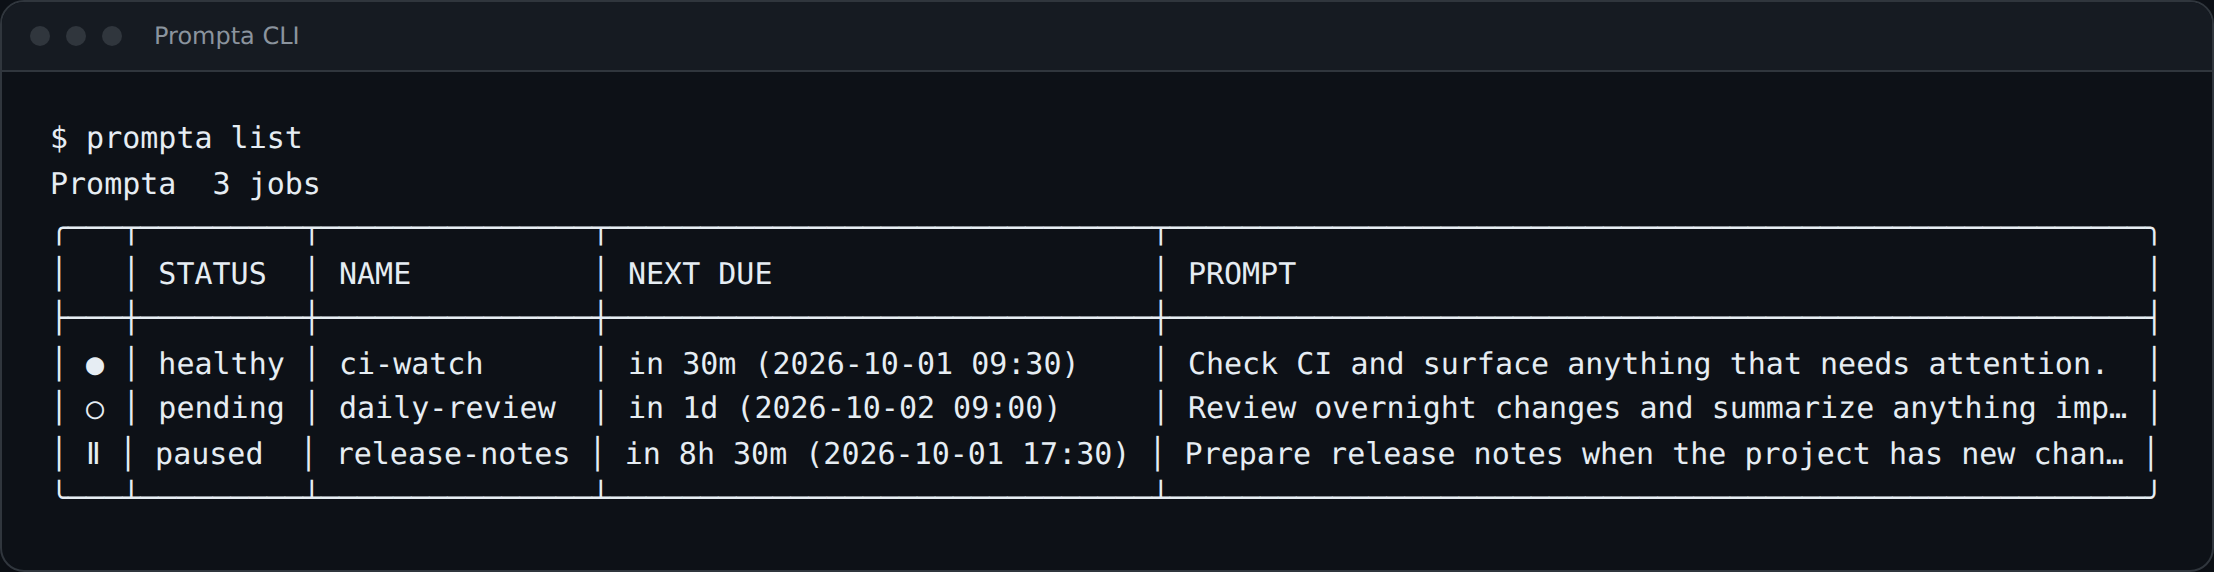
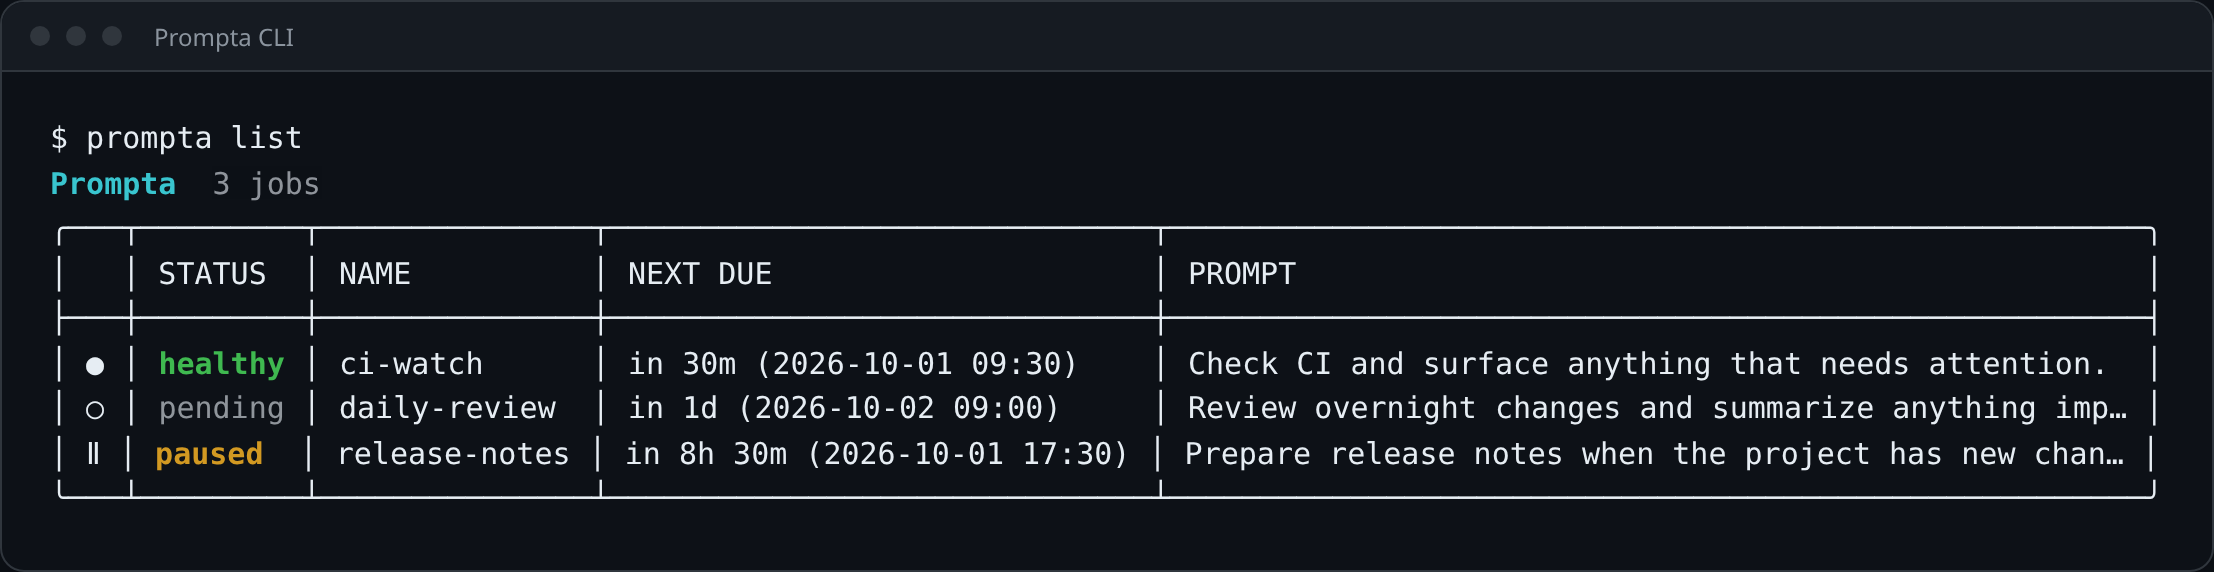
Preserve CLI colors in README screenshot

diff --git a/scripts/generate_readme_screenshots.py b/scripts/generate_readme_screenshots.py
@@ -3,6 +3,7 @@ from __future__ import annotations
 import html
 import io
 import os
+import re
 import sys
 import tempfile
 import threading
@@ -29,6 +30,14 @@ FIXED_NOW = datetime(
     0,
     tzinfo=timezone(timedelta(hours=13)),
 ).timestamp()
+ANSI_RE = re.compile(r"\x1b\[([0-9;]*)m")
+ANSI_COLORS = {
+    31: "#f85149",
+    32: "#3fb950",
+    33: "#d29922",
+    34: "#58a6ff",
+    36: "#39c5cf",
+}
 
 
 def _set_timezone() -> str | None:
@@ -102,8 +111,13 @@ def _create_demo_runtime(root: Path) -> Path:
     return runtime_path
 
 
+class TtyBuffer(io.StringIO):
+    def isatty(self) -> bool:
+        return True
+
+
 def _capture_cli(runtime_path: Path) -> str:
-    output = io.StringIO()
+    output = TtyBuffer()
     argv = [
         "prompta",
         "list",
@@ -112,12 +126,23 @@ def _capture_cli(runtime_path: Path) -> str:
         "--state",
         str(runtime_path),
     ]
-    with (
-        redirect_stdout(output),
-        patch.object(core.time, "time", return_value=FIXED_NOW),
-        patch.object(sys, "argv", argv),
-    ):
-        core.main()
+    previous_term = os.environ.get("TERM")
+    previous_no_color = os.environ.pop("NO_COLOR", None)
+    os.environ["TERM"] = "xterm-256color"
+    try:
+        with (
+            redirect_stdout(output),
+            patch.object(core.time, "time", return_value=FIXED_NOW),
+            patch.object(sys, "argv", argv),
+        ):
+            core.main()
+    finally:
+        if previous_term is None:
+            os.environ.pop("TERM", None)
+        else:
+            os.environ["TERM"] = previous_term
+        if previous_no_color is not None:
+            os.environ["NO_COLOR"] = previous_no_color
     return "$ prompta list\n" + output.getvalue()
 
 
@@ -138,6 +163,54 @@ def _browser(playwright: Playwright) -> Browser:
     return playwright.chromium.launch(headless=True)
 
 
+def _ansi_html(text: str) -> str:
+    parts: list[str] = []
+    bold = False
+    dim = False
+    foreground: int | None = None
+    position = 0
+
+    def append_segment(segment: str) -> None:
+        if not segment:
+            return
+        escaped = html.escape(segment)
+        styles: list[str] = []
+        if bold:
+            styles.append("font-weight:700")
+        if dim:
+            styles.append("opacity:.6")
+        if foreground in ANSI_COLORS:
+            styles.append(f"color:{ANSI_COLORS[foreground]}")
+        if styles:
+            parts.append(f'<span style="{";".join(styles)}">{escaped}</span>')
+        else:
+            parts.append(escaped)
+
+    for match in ANSI_RE.finditer(text):
+        append_segment(text[position : match.start()])
+        codes = [int(value) if value else 0 for value in match.group(1).split(";")]
+        for code in codes:
+            if code == 0:
+                bold = False
+                dim = False
+                foreground = None
+            elif code == 1:
+                bold = True
+            elif code == 2:
+                dim = True
+            elif code == 22:
+                bold = False
+                dim = False
+            elif 30 <= code <= 37:
+                foreground = code
+            elif code == 39:
+                foreground = None
+        position = match.end()
+
+    append_segment(text[position:])
+    return "".join(parts)
+
+
 def _render_cli(browser: Browser, output: str) -> None:
     context = browser.new_context(
         viewport={"width": 1200, "height": 520},
@@ -148,7 +221,7 @@ def _render_cli(browser: Browser, output: str) -> None:
     )
     try:
         page = context.new_page()
-        escaped = html.escape(output)
+        rendered = _ansi_html(output)
         page.set_content(
             f"""
             <!doctype html>
@@ -203,7 +276,7 @@ def _render_cli(browser: Browser, output: str) -> None:
                 <span class="dot"></span>
                 <span class="title">Prompta CLI</span>
               </div>
-              <pre>{escaped}</pre>
+              <pre>{rendered}</pre>
             </div>
             """
         )
